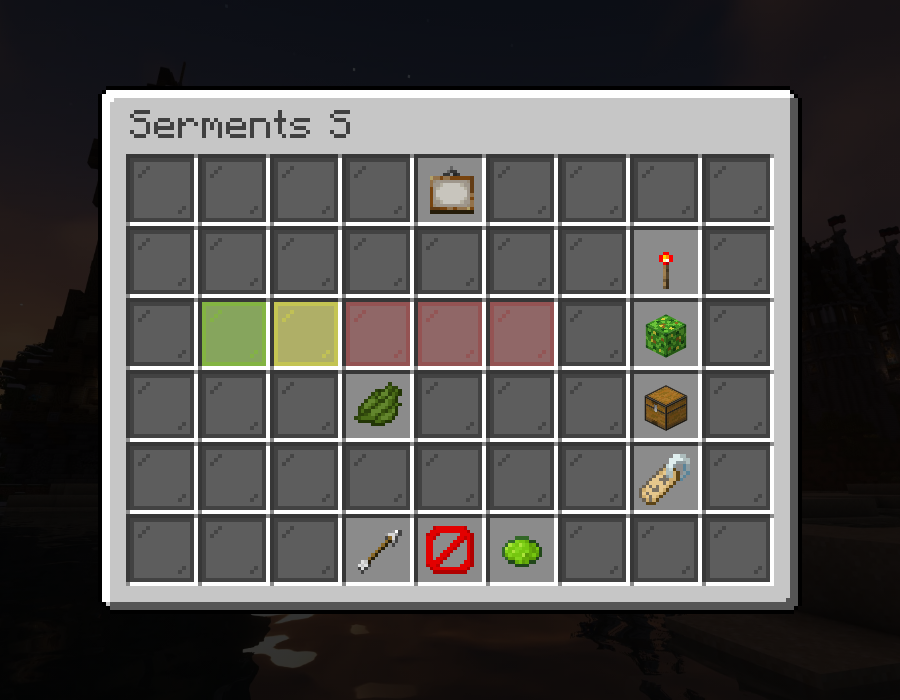
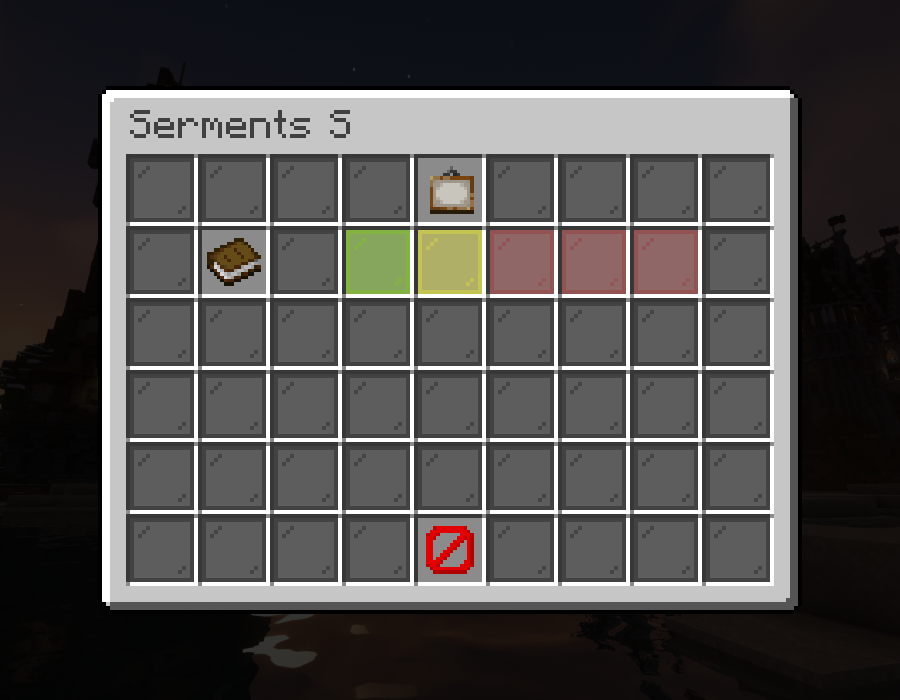
Serments S : décale la ligne de vitres, ajoute un livre, retire teintures et flèche
Claude-Session: https://claude.ai/code/session_019gCBZ2Dy19V3W7UiEquzyT

Changed region(s): [[0.2178, 0.33, 0.7778, 0.75], [0.5289, 0.72, 0.6222, 0.84], [0.3733, 0.72, 0.4667, 0.84]]

diff --git a/index.html b/index.html
@@ -72,15 +72,13 @@ const PAGES = {
     title: 'Serments S',
     slots: {
       '0,4': { item: 'painting', tooltip: ['§aSerments S', ...LORE] },
-      '2,1': { pane: 'lime_stained_glass' },
-      '2,2': { pane: 'yellow_stained_glass' },
-      '2,3': { pane: 'red_stained_glass' },
-      '2,4': { pane: 'red_stained_glass' },
-      '2,5': { pane: 'red_stained_glass' },
-      '3,3': { item: 'green_dye', tooltip: ['§aProgression', ...LORE] },
-      '5,3': { item: 'arrow', tooltip: ['§aRetour', '§7Vers Profil Joueur'], open: 'main' },
+      '1,1': { item: 'book', tooltip: ['§aLivre', ...LORE] },
+      '1,3': { pane: 'lime_stained_glass' },
+      '1,4': { pane: 'yellow_stained_glass' },
+      '1,5': { pane: 'red_stained_glass' },
+      '1,6': { pane: 'red_stained_glass' },
+      '1,7': { pane: 'red_stained_glass' },
       '5,4': { item: 'barrier', tooltip: ['§cFermer', '', '§eClique pour revenir au menu !'], open: 'main' },
-      '5,5': { item: 'lime_dye', tooltip: ['§aActivé', ...LORE] },
     },
   },
 };
